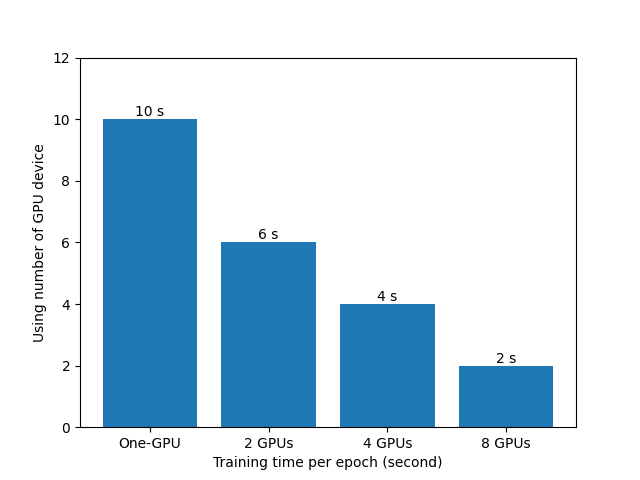
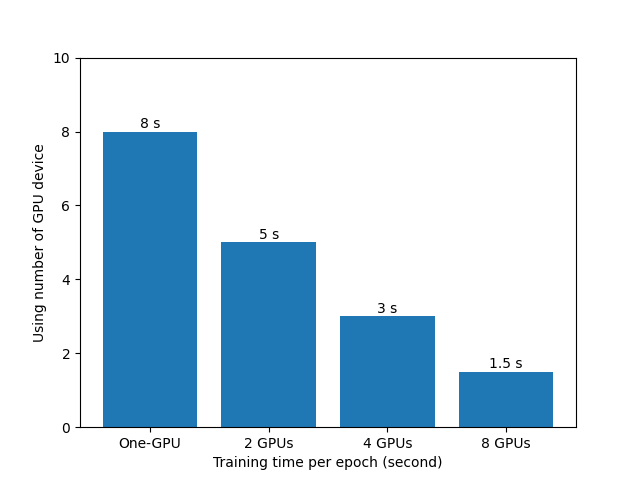
update code

diff --git a/pytorch_classification/train_multi_GPU/train_multi_gpu.py b/pytorch_classification/train_multi_GPU/train_multi_gpu.py
@@ -1,8 +1,10 @@
 import os
+import math
 import argparse
 
 import torch
 import torch.optim as optim
+import torch.optim.lr_scheduler as lr_scheduler
 from torch.utils.tensorboard import SummaryWriter
 from torchvision import transforms
 
@@ -104,6 +106,7 @@ def main(args):
             if "fc" not in name:
                 para.requires_grad_(False)
     else:
+        # 使用SyncBatchNorm后训练会更耗时
         model = torch.nn.SyncBatchNorm.convert_sync_batchnorm(model).to(device)
 
     # 转为DDP模型
@@ -111,7 +114,10 @@ def main(args):
 
     # optimizer
     pg = [p for p in model.parameters() if p.requires_grad]
-    optimizer = optim.Adam(pg, lr=args.lr)
+    optimizer = optim.SGD(pg, lr=args.lr, momentum=0.9, weight_decay=0.005)
+    # Scheduler https://arxiv.org/pdf/1812.01187.pdf
+    lf = lambda x: ((1 + math.cos(x * math.pi / args.epochs)) / 2) * (1 - args.lrf) + args.lrf  # cosine
+    scheduler = lr_scheduler.LambdaLR(optimizer, lr_lambda=lf)
 
     for epoch in range(args.epochs):
         train_sampler.set_epoch(epoch)
@@ -122,6 +128,8 @@ def main(args):
                                     device=device,
                                     epoch=epoch)
 
+        scheduler.step()
+
         sum_num = evaluate(model=model,
                            data_loader=val_loader,
                            device=device)
@@ -129,9 +137,10 @@ def main(args):
 
         if rank == 0:
             print("[epoch {}] accuracy: {}".format(epoch, round(acc, 3)))
-            tags = ["loss", "accuracy"]
+            tags = ["loss", "accuracy", "learning_rate"]
             tb_writer.add_scalar(tags[0], mean_loss, epoch)
             tb_writer.add_scalar(tags[1], acc, epoch)
+            tb_writer.add_scalar(tags[2], optimizer.param_groups[0]["lr"], epoch)
 
             torch.save(model.state_dict(), "./weights/model-{}.pth".format(epoch))
 
@@ -141,7 +150,8 @@ if __name__ == '__main__':
     parser.add_argument('--num_classes', type=int, default=5)
     parser.add_argument('--epochs', type=int, default=30)
     parser.add_argument('--batch-size', type=int, default=16)
-    parser.add_argument('--lr', type=float, default=0.0001)
+    parser.add_argument('--lr', type=float, default=0.001)
+    parser.add_argument('--lrf', type=float, default=0.1)
 
     # 数据集所在根目录
     # http://download.tensorflow.org/example_images/flower_photos.tgz

diff --git a/pytorch_classification/train_multi_GPU/train_single_gpu.py b/pytorch_classification/train_multi_GPU/train_single_gpu.py
@@ -1,10 +1,12 @@
 import os
+import math
 import argparse
 
 import torch
+import torch.optim as optim
 from torch.utils.tensorboard import SummaryWriter
 from torchvision import transforms
-import torch.optim as optim
+import torch.optim.lr_scheduler as lr_scheduler
 
 from model import resnet34, resnet101
 from my_dataset import MyDataSet
@@ -76,7 +78,10 @@ def main(args):
                 para.requires_grad_(False)
 
     pg = [p for p in model.parameters() if p.requires_grad]
-    optimizer = optim.Adam(pg, lr=args.lr)
+    optimizer = optim.SGD(pg, lr=args.lr, momentum=0.9, weight_decay=0.005)
+    # Scheduler https://arxiv.org/pdf/1812.01187.pdf
+    lf = lambda x: ((1 + math.cos(x * math.pi / args.epochs)) / 2) * (1 - args.lrf) + args.lrf  # cosine
+    scheduler = lr_scheduler.LambdaLR(optimizer, lr_lambda=lf)
 
     for epoch in range(args.epochs):
         # train
@@ -86,15 +91,18 @@ def main(args):
                                     device=device,
                                     epoch=epoch)
 
+        scheduler.step()
+
         # validate
         sum_num = evaluate(model=model,
                            data_loader=val_loader,
                            device=device)
         acc = sum_num / len(val_data_set)
         print("[epoch {}] accuracy: {}".format(epoch, round(acc, 3)))
-        tags = ["loss", "accuracy"]
+        tags = ["loss", "accuracy", "learning_rate"]
         tb_writer.add_scalar(tags[0], mean_loss, epoch)
         tb_writer.add_scalar(tags[1], acc, epoch)
+        tb_writer.add_scalar(tags[2], optimizer.param_groups[0]["lr"], epoch)
 
         torch.save(model.state_dict(), "./weights/model-{}.pth".format(epoch))
 
@@ -104,7 +112,8 @@ if __name__ == '__main__':
     parser.add_argument('--num_classes', type=int, default=5)
     parser.add_argument('--epochs', type=int, default=30)
     parser.add_argument('--batch-size', type=int, default=16)
-    parser.add_argument('--lr', type=float, default=0.0001)
+    parser.add_argument('--lr', type=float, default=0.001)
+    parser.add_argument('--lrf', type=float, default=0.1)
 
     # 数据集所在根目录
     # http://download.tensorflow.org/example_images/flower_photos.tgz

diff --git a/pytorch_classification/train_multi_GPU/plot_results.py b/pytorch_classification/train_multi_GPU/plot_results.py
@@ -1,0 +1,54 @@
+import matplotlib.pyplot as plt
+
+x = [0, 1, 2, 3]
+y = [8, 5, 3, 1.5]
+
+plt.bar(x, y, align='center')
+plt.xticks(range(len(x)), ['One-GPU', '2 GPUs', '4 GPUs', '8 GPUs'])
+plt.ylim((0, 10))
+for i, v in enumerate(y):
+    plt.text(x=i, y=v + 0.1, s=str(v) + ' s', ha='center')
+plt.xlabel('Training time per epoch (second)')
+plt.ylabel('Using number of GPU device')
+plt.show()
+plt.close()
+
+x = list(range(30))
+no_SyncBatchNorm = [0.348, 0.495, 0.587, 0.554, 0.637,
+                    0.622, 0.689, 0.673, 0.702, 0.717,
+                    0.717, 0.69, 0.716, 0.696, 0.738,
+                    0.75, 0.75, 0.66, 0.713, 0.758,
+                    0.777, 0.777, 0.769, 0.792, 0.802,
+                    0.807, 0.807, 0.804, 0.812, 0.811]
+
+SyncBatchNorm = [0.283, 0.514, 0.531, 0.654, 0.671,
+                 0.591, 0.621, 0.685, 0.701, 0.732,
+                 0.701, 0.74, 0.667, 0.723, 0.745,
+                 0.679, 0.738, 0.772, 0.764, 0.765,
+                 0.764, 0.791, 0.818, 0.791, 0.807,
+                 0.806, 0.811, 0.821, 0.833, 0.81]
+
+plt.plot(x, no_SyncBatchNorm, label="No SyncBatchNorm")
+plt.plot(x, SyncBatchNorm, label="SyncBatchNorm")
+plt.xlabel('Training epochs')
+plt.ylabel('Accuracy')
+plt.legend()
+plt.show()
+plt.close()
+
+
+x = list(range(30))
+single_gpu = [0.569, 0.576, 0.654, 0.648, 0.609,
+              0.637, 0.699, 0.709, 0.715, 0.715,
+              0.717, 0.724, 0.722, 0.731, 0.721,
+              0.774, 0.751, 0.787, 0.78, 0.77,
+              0.763, 0.803, 0.754, 0.796, 0.799,
+              0.815, 0.793, 0.808, 0.811, 0.806]
+plt.plot(x, single_gpu, color="black", label="Single GPU")
+plt.plot(x, no_SyncBatchNorm, label="No SyncBatchNorm")
+plt.plot(x, SyncBatchNorm, label="SyncBatchNorm")
+plt.xlabel('Training epochs')
+plt.ylabel('Accuracy')
+plt.legend()
+plt.show()
+plt.close()

diff --git a/pytorch_classification/train_multi_GPU/README.md b/pytorch_classification/train_multi_GPU/README.md
@@ -5,3 +5,9 @@
 
 ## 训练时间对比
 ![training time](./training_time.png)
+
+## 是否使用SyncBatchNorm
+![syncbn](./syncbn.png)
+
+## 单GPU与多GPU训练曲线
+![accuracy](./accuracy.png)
